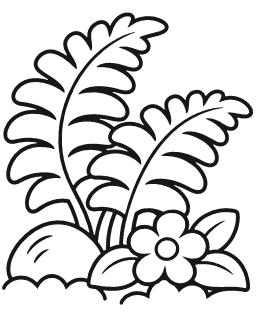
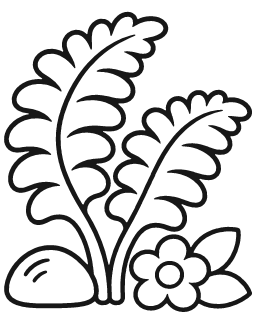
fix: reemplazar la lámina de helechos E10

diff --git a/tool/laminas/convertir.py b/tool/laminas/convertir.py
@@ -66,7 +66,7 @@ PAGINAS_PREVIAS = {'E01': ('rana-en-la-hoja', 2), 'M06': ('quetzal', 2),
 def pagina_de(art_id, tema_id):
     if art_id in PAGINAS_PREVIAS:
         return PAGINAS_PREVIAS[art_id]
-    return f'{art_id.lower()}-{tema_id}', 2 if art_id in {'E03', 'E04', 'E05', 'E06', 'E07', 'E09'} else 1
+    return f'{art_id.lower()}-{tema_id}', 2 if art_id in {'E03', 'E04', 'E05', 'E06', 'E07', 'E09', 'E10'} else 1
 
 
 def leer_gris(ruta):

diff --git a/tool/laminas/manifiesto.py b/tool/laminas/manifiesto.py
@@ -92,6 +92,7 @@ PREVIAS = {
     'e06-quetzal': {'1': 'pages/e06-quetzal-v1.json'},
     'e07-perezoso': {'1': 'pages/e07-perezoso-v1.json'},
     'e09-coati': {'1': 'pages/e09-coati-v1.json'},
+    'e10-helechos': {'1': 'pages/e10-helechos-v1.json'},
     'rana-en-la-hoja': {'1': 'pages/rana-en-la-hoja-v1.json'},
     'quetzal': {'1': 'pages/quetzal-v1.json'},
     'sendero': {'1': 'pages/sendero-v1.json'},

diff --git a/docs/laminas/REGISTRO_CAMBIOS.md b/docs/laminas/REGISTRO_CAMBIOS.md
@@ -74,12 +74,12 @@ Todas las láminas se normalizan a 1600 px de lado mayor y se vectorizan; debajo
 - Lienzo: 1280 × 1600 (vertical); trazo 17.6 px; tinta que toca el marco: 6.8 %
 - Los detalles blancos de los ojos y el reflejo de la nariz tienen regiones propias. Las orejas comparten color con la cabeza y los huecos entre las patas con el fondo.
 
-## E10 · `e10-helechos` (revisión 1)
+## E10 · `e10-helechos` (revisión 2)
 
 - Original: `Imagen de ChatGPT 12 nov 2026, 23_04_01-4.webp` → `E10_helechos.webp` (1122 × 1402 px), SHA-256 `f2a55777b66823cb…`
-- Lienzo: 1280 × 1600 (vertical); trazo 19.6 px; tinta que toca el marco: 0.0 %
-- huecos de trazo cerrados (722 px)
-- 7 zonas pequeñas agrupadas con su vecina
+- Fuente nueva: `tool/laminas/fuentes_corregidas/E10.png` (1122 × 1402 px), SHA-256 `34054830849c87cf…`
+- Lienzo: 1280 × 1600 (vertical); trazo 24.0 px; tinta que toca el marco: 0.0 %
+- Se redibujó la composición con un tallo continuo por helecho y sin líneas de suelo. Los helechos, la roca, los pétalos, el centro y las dos hojas de la flor tienen rellenos propios.
 
 ## E11 · `e11-orquideas` (revisión 1)
 
